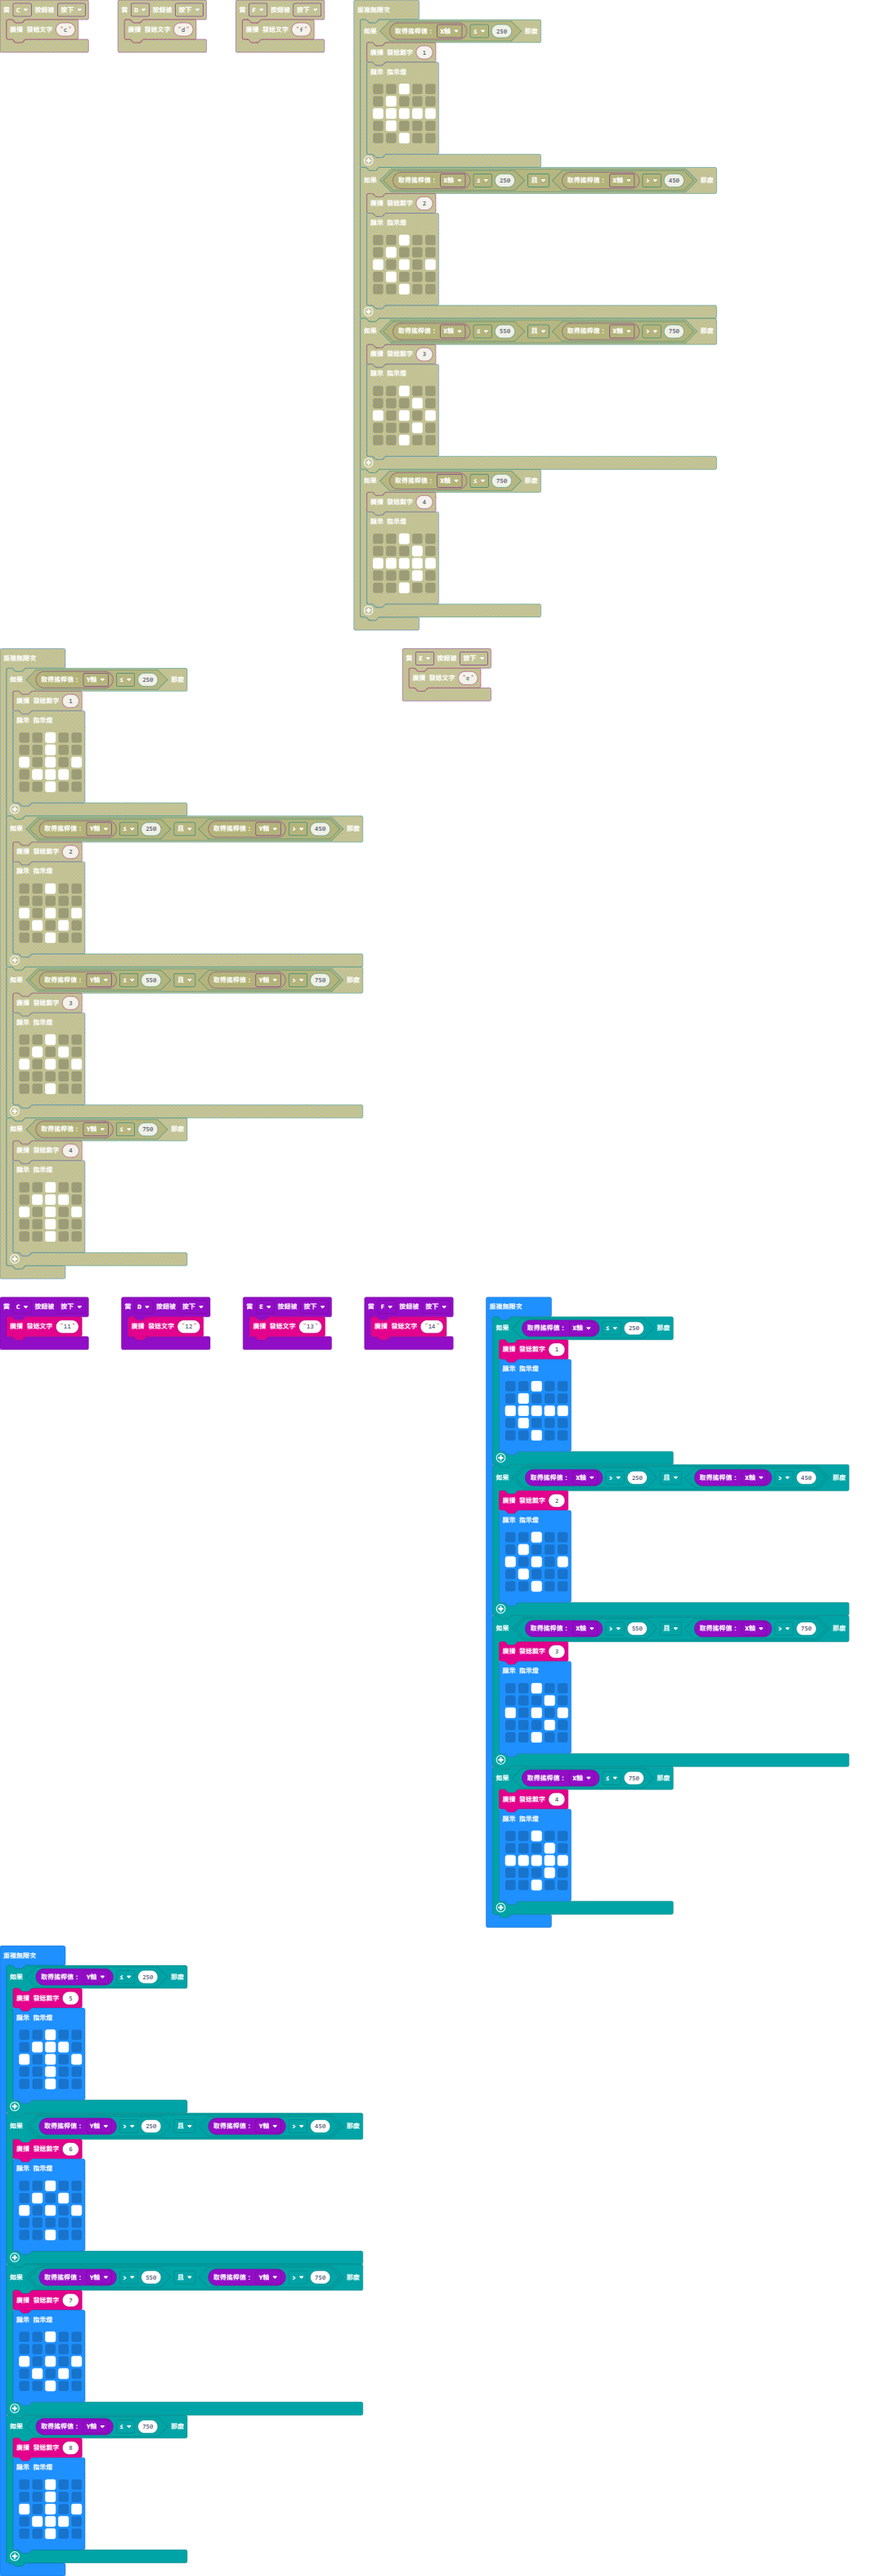
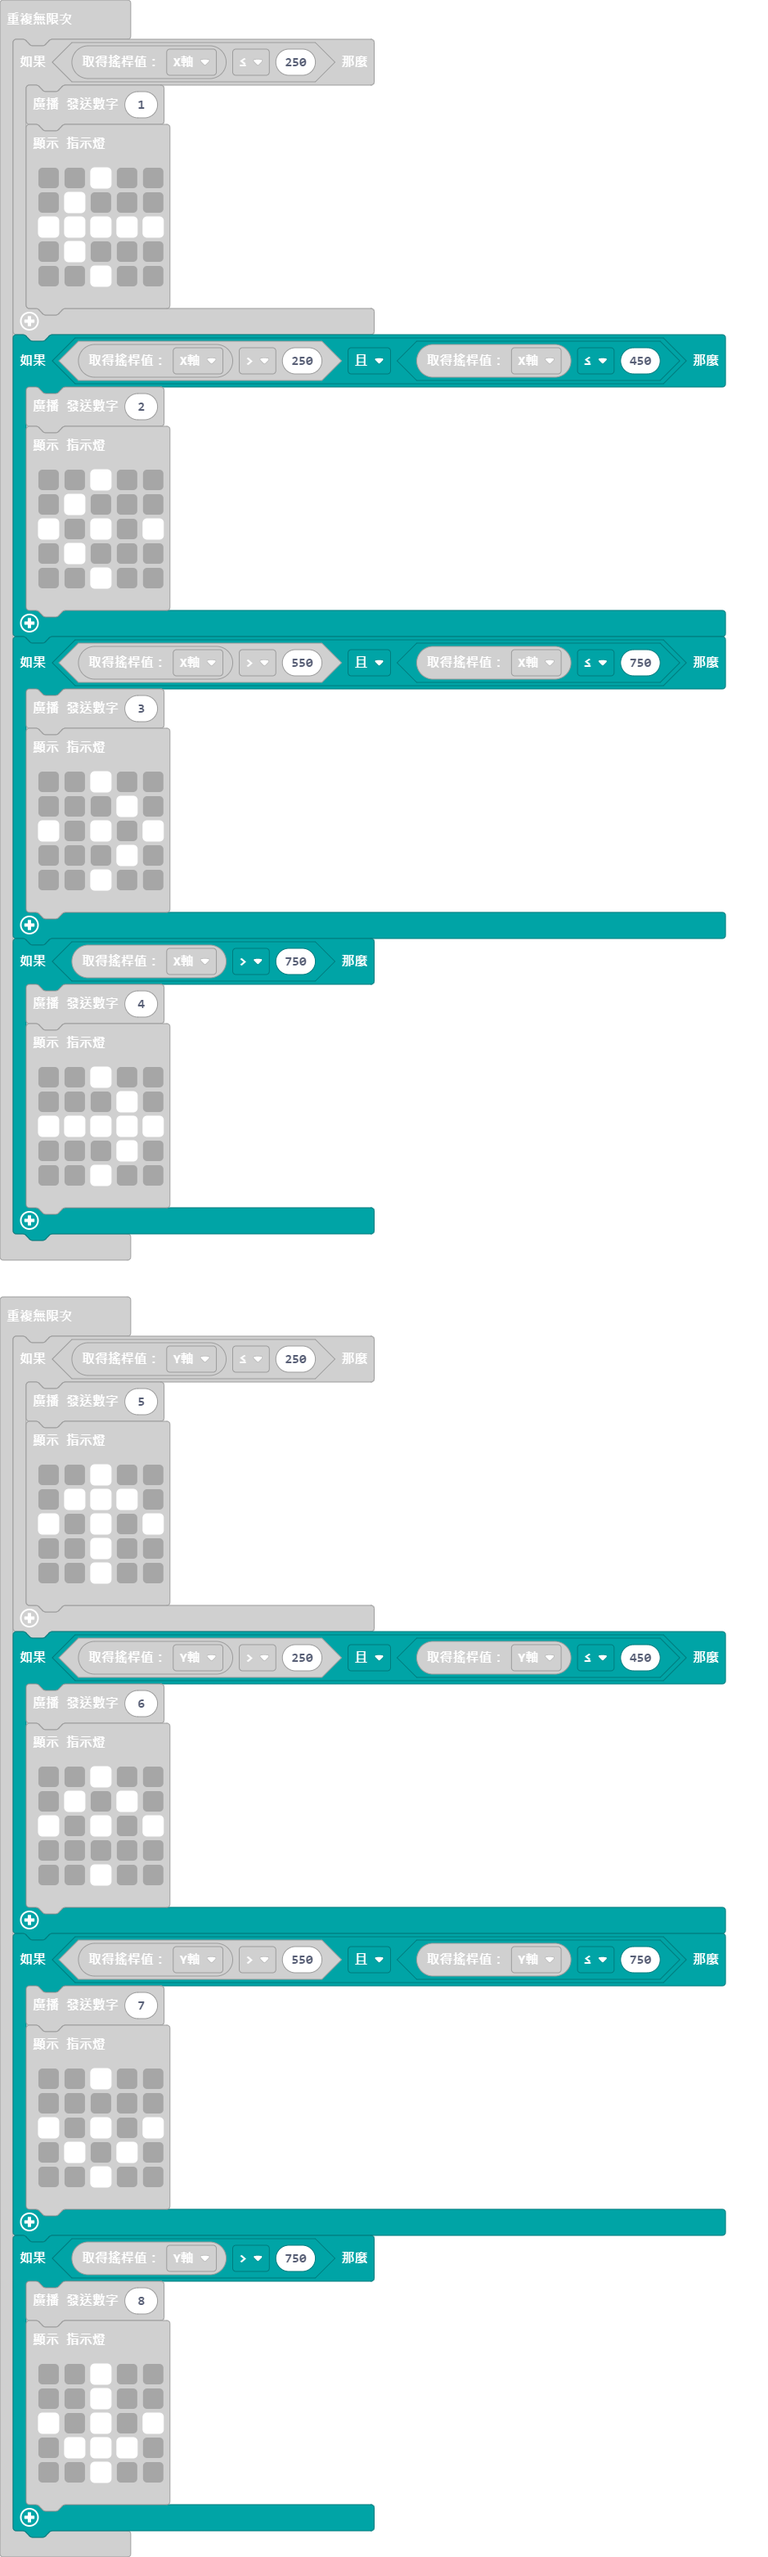
Update main.blocks, main.ts

diff --git a/main.ts b/main.ts
@@ -26,7 +26,7 @@ basic.forever(function () {
             . . # . .
             `)
     }
-    if (KSB045.getJoystickValue(KSB045.valueType.X) > 250 && KSB045.getJoystickValue(KSB045.valueType.X) > 450) {
+    if (KSB045.getJoystickValue(KSB045.valueType.X) > 250 && KSB045.getJoystickValue(KSB045.valueType.X) <= 450) {
         radio.sendNumber(2)
         basic.showLeds(`
             . . # . .
@@ -36,7 +36,7 @@ basic.forever(function () {
             . . # . .
             `)
     }
-    if (KSB045.getJoystickValue(KSB045.valueType.X) > 550 && KSB045.getJoystickValue(KSB045.valueType.X) > 750) {
+    if (KSB045.getJoystickValue(KSB045.valueType.X) > 550 && KSB045.getJoystickValue(KSB045.valueType.X) <= 750) {
         radio.sendNumber(3)
         basic.showLeds(`
             . . # . .
@@ -46,7 +46,7 @@ basic.forever(function () {
             . . # . .
             `)
     }
-    if (KSB045.getJoystickValue(KSB045.valueType.X) <= 750) {
+    if (KSB045.getJoystickValue(KSB045.valueType.X) > 750) {
         radio.sendNumber(4)
         basic.showLeds(`
             . . # . .
@@ -68,7 +68,7 @@ basic.forever(function () {
             . . # . .
             `)
     }
-    if (KSB045.getJoystickValue(KSB045.valueType.Y) > 250 && KSB045.getJoystickValue(KSB045.valueType.Y) > 450) {
+    if (KSB045.getJoystickValue(KSB045.valueType.Y) > 250 && KSB045.getJoystickValue(KSB045.valueType.Y) <= 450) {
         radio.sendNumber(6)
         basic.showLeds(`
             . . # . .
@@ -78,7 +78,7 @@ basic.forever(function () {
             . . # . .
             `)
     }
-    if (KSB045.getJoystickValue(KSB045.valueType.Y) > 550 && KSB045.getJoystickValue(KSB045.valueType.Y) > 750) {
+    if (KSB045.getJoystickValue(KSB045.valueType.Y) > 550 && KSB045.getJoystickValue(KSB045.valueType.Y) <= 750) {
         radio.sendNumber(7)
         basic.showLeds(`
             . . # . .
@@ -88,7 +88,7 @@ basic.forever(function () {
             . . # . .
             `)
     }
-    if (KSB045.getJoystickValue(KSB045.valueType.Y) <= 750) {
+    if (KSB045.getJoystickValue(KSB045.valueType.Y) > 750) {
         radio.sendNumber(8)
         basic.showLeds(`
             . . # . .
